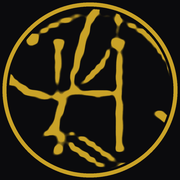
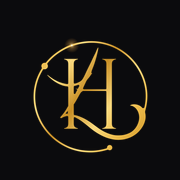
Oscurece el dorado del texto, aplica la identidad definitiva y ajusta el correo
El texto pequeño sobre fondos claros pasa de brand-600 a brand-700 (3,5:1 a
5,3:1, AA) y el eslogan de 9 px sube a 11 px con menos tracking. La cabecera y
el pie usan el emblema definitivo, la línea gráfica blanca «Servicios contables
& outsourcing» y favicons, iconos de app y vista previa social generados desde
el vectorial; el nombre de la marca deja de recortarse al ampliar su caja, que
es lo que limita el degradado con background-clip. El correo del formulario
pasa a «Solicitud de Asesoría» y resuelve la etiqueta del servicio en el panel
para el asunto, en lugar del valor técnico.

🤖 Generated with Codebuff

diff --git a/src/pages/api/contacto.ts b/src/pages/api/contacto.ts
@@ -1,5 +1,6 @@
 import type { APIRoute } from 'astro';
 import { CONTACT_FROM, CONTACT_TO, RESEND_API_KEY } from 'astro:env/server';
+import { getTextosData } from '../../lib/content';
 
 // Función de servidor: recibe el formulario de contacto y lo entrega por correo
 // con Resend. La clave vive en la variable de entorno RESEND_API_KEY (Vercel →
@@ -114,15 +115,27 @@ export const POST: APIRoute = async ({ request, clientAddress }) => {
   const destino = CONTACT_TO ?? DESTINO_POR_DEFECTO;
   const remitente = CONTACT_FROM ?? REMITENTE_POR_DEFECTO;
 
+  // El formulario envía el valor técnico («seguros»); el correo debe leer la
+  // etiqueta del panel («Seguros»). Si el contenido no estuviera disponible en
+  // tiempo de ejecución, se cae al valor técnico sin romper el envío.
+  let etiquetaServicio = servicio;
+  try {
+    const textos = await getTextosData();
+    const opcion = textos.contact.form.serviceOptions.find((o) => o.value === servicio);
+    if (opcion) etiquetaServicio = opcion.label;
+  } catch (error) {
+    console.warn('[contacto] sin etiqueta del servicio', error instanceof Error ? error.message : error);
+  }
+
   const filas: Array<[string, string]> = [
     ['Nombre', nombre],
     ['Teléfono', telefono],
     ['Correo', email || 'No indicado'],
-    ['Servicio de interés', servicio],
+    ['Servicio de interés', etiquetaServicio],
   ];
 
   const texto = [
-    'Nuevo mensaje desde el formulario del sitio',
+    'Nuevo mensaje desde el formulario de Solicitud de Asesoría',
     '',
     ...filas.map(([k, v]) => `${k}: ${v}`),
     '',
@@ -132,7 +145,7 @@ export const POST: APIRoute = async ({ request, clientAddress }) => {
 
   const html = `
     <div style="font-family:Inter,Arial,sans-serif;color:#0B0B0D;line-height:1.6">
-      <h2 style="margin:0 0 16px;font-size:18px">Nuevo mensaje desde el formulario del sitio</h2>
+      <h2 style="margin:0 0 16px;font-size:18px">Nuevo mensaje desde el formulario de Solicitud de Asesoría</h2>
       <table style="border-collapse:collapse;font-size:14px">
         ${filas
           .map(
@@ -145,6 +158,8 @@ export const POST: APIRoute = async ({ request, clientAddress }) => {
       <p style="margin:0;white-space:pre-wrap">${escapar(mensaje)}</p>
     </div>`;
 
+  const asunto = `Nuevo mensaje de Solicitud de Asesoría · Tema: ${etiquetaServicio}`;
+
   try {
     const respuesta = await fetch('https://api.resend.com/emails', {
       method: 'POST',
@@ -153,7 +168,7 @@ export const POST: APIRoute = async ({ request, clientAddress }) => {
         from: remitente,
         to: [destino],
         reply_to: email || undefined,
-        subject: `Nuevo mensaje del sitio · ${servicio}`,
+        subject: asunto,
         text: texto,
         html,
       }),

diff --git a/keystatic.config.ts b/keystatic.config.ts
@@ -52,9 +52,9 @@ const paletteTokenOptions = [
   { label: 'brand-300 · dorado medio (textos sobre oscuro)', value: 'brand-300' },
   { label: 'brand-400 · dorado brillante (resaltados, iconos)', value: 'brand-400' },
   { label: 'brand-500 · dorado principal (botones, CTAs)', value: 'brand-500' },
-  { label: 'brand-600 · dorado oscuro (checks, hovers)', value: 'brand-600' },
-  { label: 'brand-700 · dorado profundo (textos sobre claro)', value: 'brand-700' },
-  { label: 'brand-800 · dorado muy oscuro (detalles)', value: 'brand-800' },
+  { label: 'brand-600 · dorado oscuro (solo rellenos, iconos y texto sobre oscuro)', value: 'brand-600' },
+  { label: 'brand-700 · dorado profundo (texto sobre fondos claros; no aclarar: AA 5,3:1)', value: 'brand-700' },
+  { label: 'brand-800 · dorado muy oscuro (detalles y bordes)', value: 'brand-800' },
   { label: 'brand-900 · dorado profundo', value: 'brand-900' },
   { label: 'brand-950 · dorado oscurísimo (acentos)', value: 'brand-950' },
   { label: 'ink-50 · casi blanco (fondos claros)', value: 'ink-50' },
